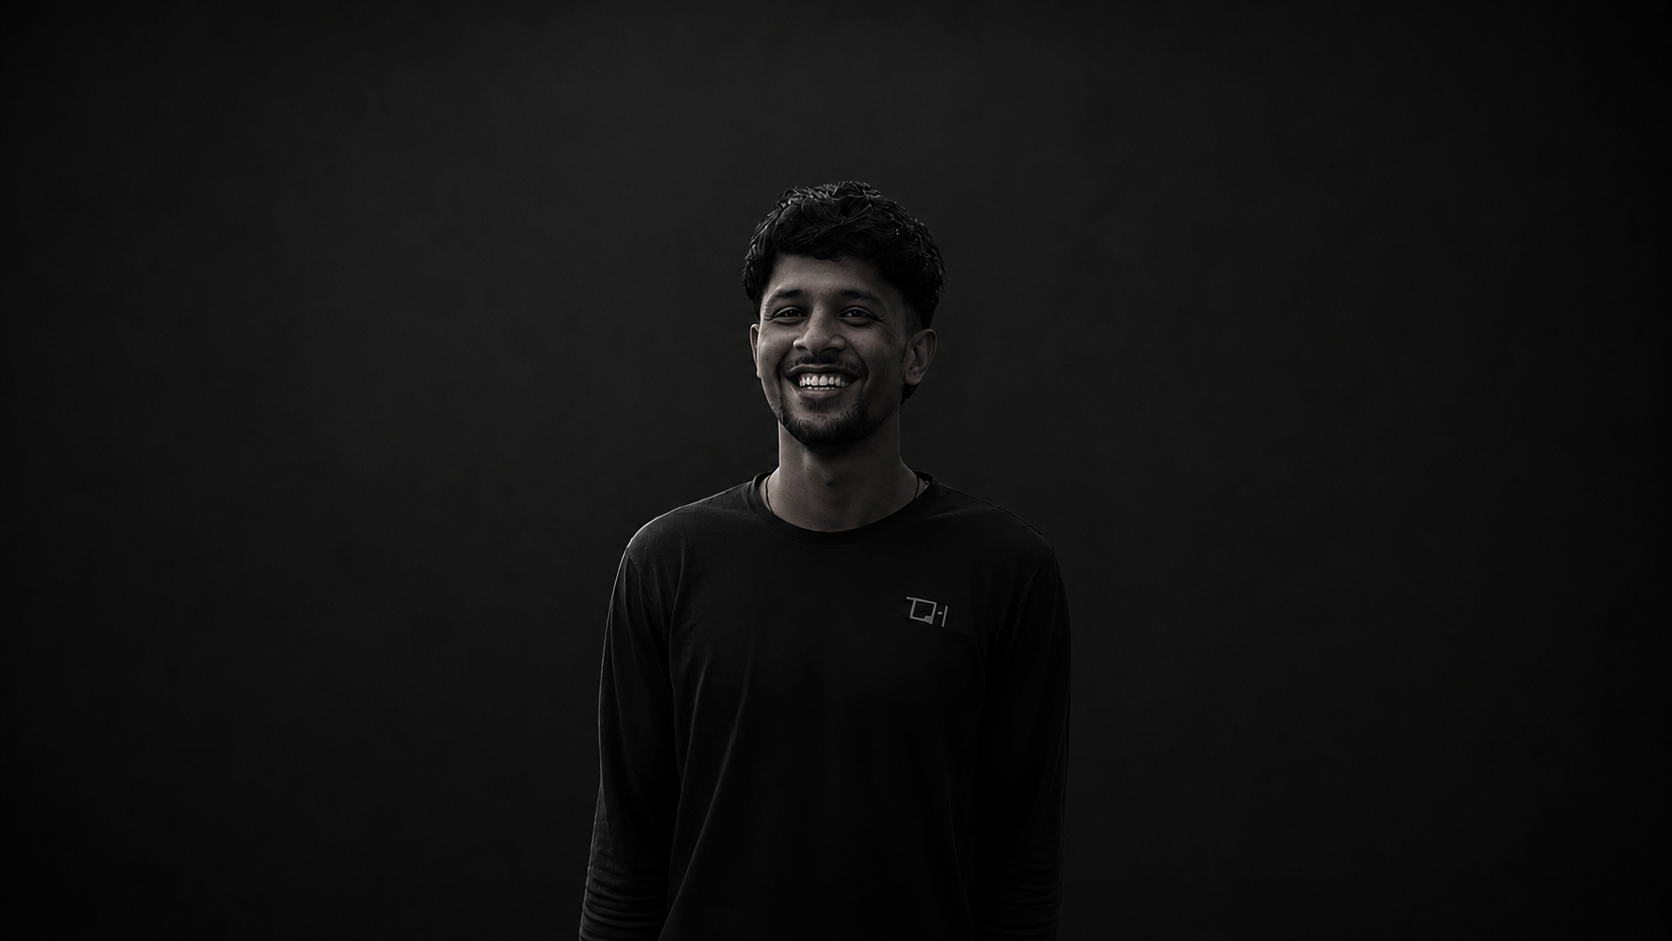
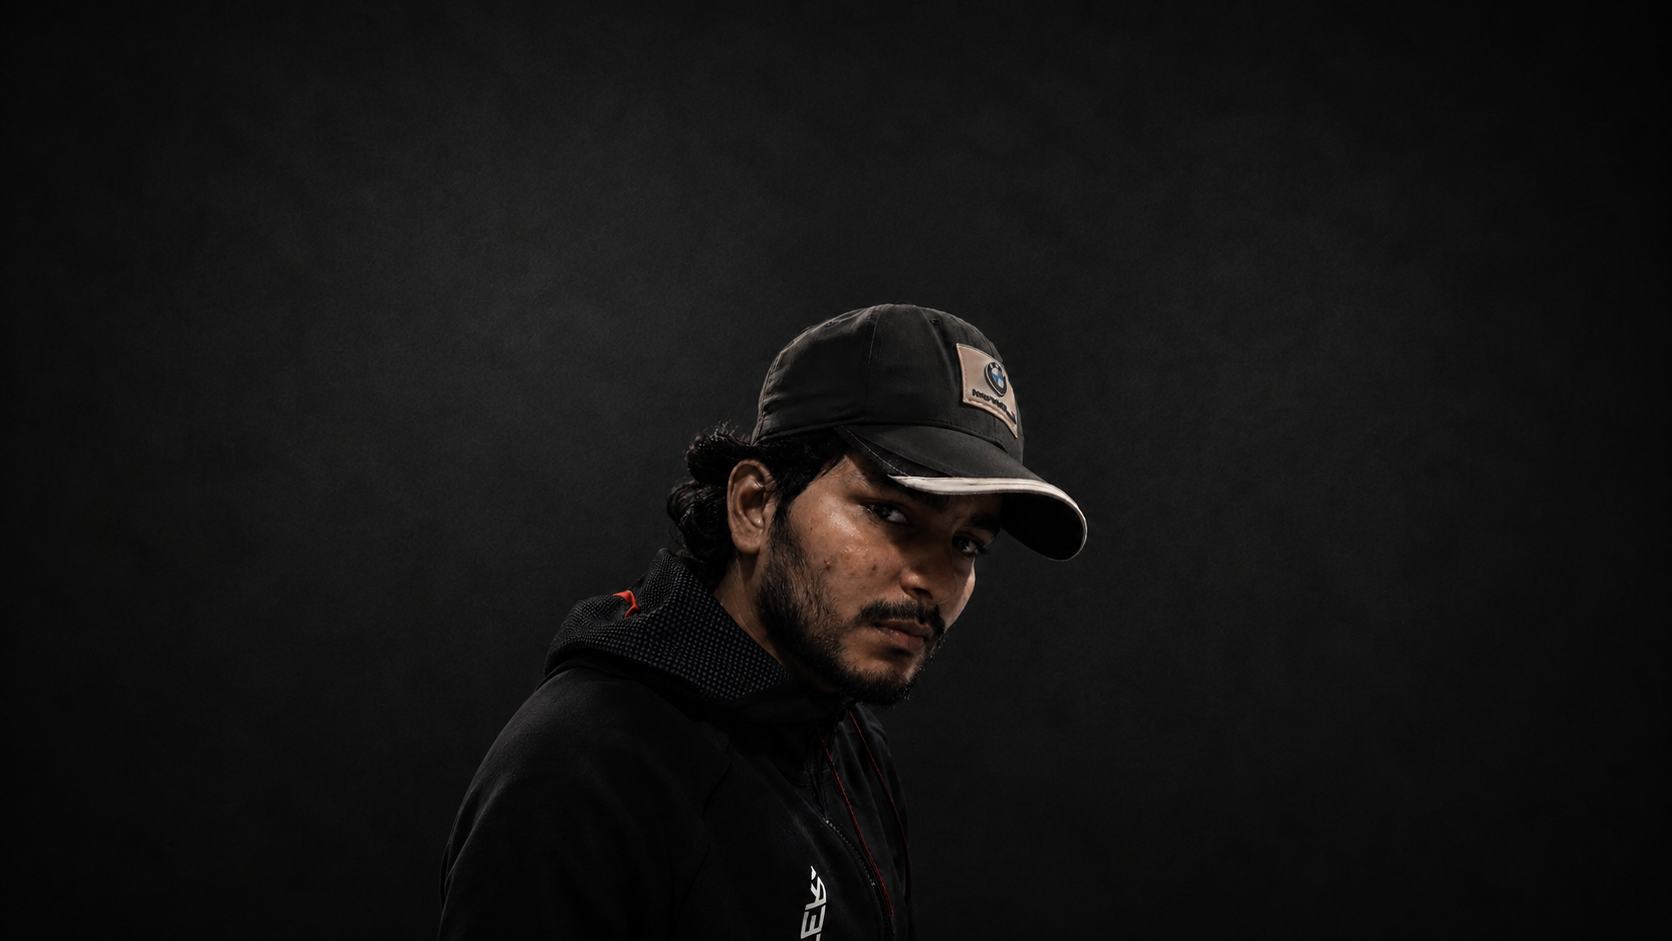
feat(assets): update About page hero portrait to new custom asset

diff --git a/src/app/about/page.tsx b/src/app/about/page.tsx
@@ -65,7 +65,7 @@ export default function AboutPage() {
         <div className="relative w-full h-svh mx-auto [clip-path:url(#my-clip-path)] bg-[#282a2c]">
           <Image
             src="/Images/About/About_Main_Img.png"
-            alt="A portrait of Nikhil Dhakad"
+            alt="A portrait of Zaheer Khan"
             fill
             className="object-cover"
             priority
